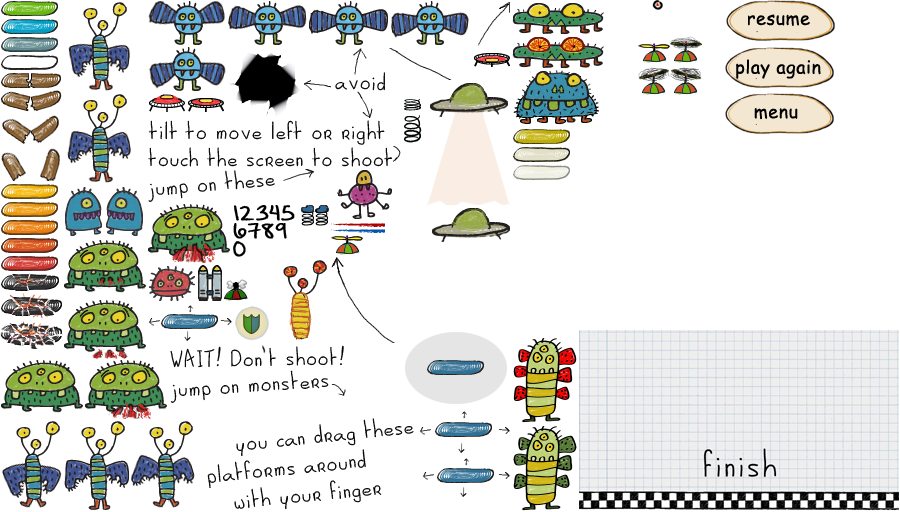
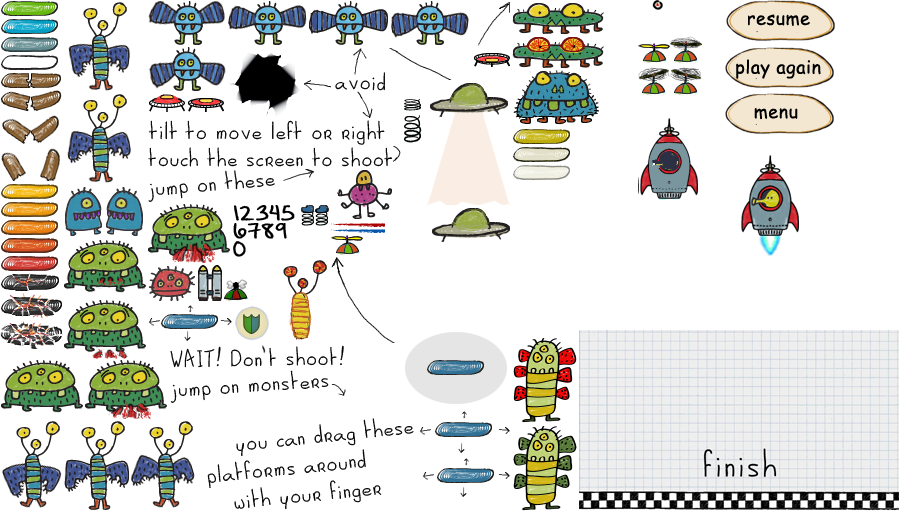
rocket added

Changed region(s): [[0.8089, 0.3125, 0.9022, 0.5], [0.6844, 0.25, 0.7778, 0.4062]]

diff --git a/doodle/js/player.js b/doodle/js/player.js
@@ -3,6 +3,8 @@ function Player(canvas, x ,y ,width, height) {
     this.y = y;
     this.width = width;
     this.height = height;
+    this.trueWidth = width;
+    this.trueHeight = height;
     this.canvas=canvas;
     this.ctx=this.canvas.getContext("2d");
 
@@ -72,16 +74,22 @@ function Player(canvas, x ,y ,width, height) {
             
             if(this.velocity >= 0){
                 this.acceleration = 0.25;
-                if(this.pickupType!="springShoe")
-                    this.hasPickup = false;
-                if(this.pickupType == "jetpack") {
-                    if(this.left) {
-                        this.img = doodleLeft;
-                    }
-                    else{
-                        this.img = doodleRight;
-                    }
+                this.width = this.trueWidth;
+                this.height = this.trueHeight;
+                if(this.hasPickup){
+                    if(this.pickupType!="springShoe"){
+                        this.hasPickup = false;
+                    }  
+                    // if(this.hasPickup){
+                        if(this.pickupType == "jetpack" || this.pickupType == "rocket") {
+                            this.img = doodleRight;
+                            this.hasPickup = false;
+                        }
+                    // }
+
                 }
+                
+                
                 this.falling = true;
                 this.velocity = this.gravity;
             }
@@ -195,6 +203,18 @@ function Player(canvas, x ,y ,width, height) {
 
                             jetpackSound.play();
                         }
+                        else if(tiles[i].pickup.choosen == "rocket") {
+                            this.setJumpspeed(-25);
+                            this.velocity = this.jumpSpeed;
+                            this.falling = false;
+                            this.acceleration = 0.10;
+                            this.hasPickup = true;
+                            this.pickupType = "rocket";
+                            this.img = doodleRocket;
+                            this.width = 72;
+                            this.height = 129;
+                            
+                        }
                     }
 
                 }
@@ -202,6 +222,7 @@ function Player(canvas, x ,y ,width, height) {
 
                 if(this.falling){
                     if(this.y + this.height <= tiles[i].y+ tiles[i].height){
+                        
                         if(tiles[i].hasSpring) {
                             this.setJumpspeed(-15);
                             tiles[i].inflateSpring(116, 28);
@@ -242,6 +263,10 @@ function Player(canvas, x ,y ,width, height) {
                             this.hasPickup = false;
                         }
                         this.springJumpCounter--;
+
+                        // if(tiles[i].isWhite) {
+                        //     tiles.splice(i,1);
+                        // }
 
                     }
 
@@ -308,6 +333,9 @@ function Player(canvas, x ,y ,width, height) {
                     else if(dis.pickupType == "jetpack") {
                         dis.img = doodleLeftJetpack;
                     }
+                    else if(dis.pickupType == "rocket") {
+                        dis.img = doodleRocket;
+                    }
                     else{
                         dis.img = doodleLeft;
                     }
@@ -327,6 +355,9 @@ function Player(canvas, x ,y ,width, height) {
                     }
                     else if(dis.pickupType == "jetpack") {
                         dis.img = doodleRightJetpack;
+                    }
+                    else if(dis.pickupType == "rocket") {
+                        dis.img = doodleRocket;
                     }
                     else{
                         dis.img = doodleRight;

diff --git a/doodle/js/tile.js b/doodle/js/tile.js
@@ -3,19 +3,20 @@
 function Tile(canvas, x ,y) {
     this.x = x;
     this.y = y;
-    this.width = 60;
-    this.height = 15;
+    this.width = 58;
+    this.height = 16;
     this.canvas=canvas;
     this.ctx=this.canvas.getContext("2d");
 
-    let ran = parseInt(Math.random()*10);
-    this.hasSpring = (ran >= "9") ? true :false;
+    let ran = parseInt(Math.random()*20);
+    this.hasSpring = (ran >= 18) ? true :false;
     this.springX = getRandomValue(this.x, this.x+ this.width-19);
 
-    this.isBlue = (ran <= "2") ? true: false;
+    this.isBlue = (ran <= 3) ? true: false;
+    this.isWhite = (ran == 10) ? true: false;
 
 
-    this.hasPickup = (ran == 5) ? true: false;
+    this.hasPickup = (ran == 7) ? true: false;
 
     this.dx = 1;
     this.img = tile;
@@ -28,10 +29,23 @@ function Tile(canvas, x ,y) {
     this.springHeight = 12;
     this.diff = 5;
 
+    this.sy =0;
+
+
+    this.positionY = {
+        green: 0 ,
+        blue : 18,
+        white: 54
+        
+    }
+
     var dis = this;
     this.init = function() {
         if(this.isBlue){
-            this.img = tileBlue;
+            this.sy = this.positionY.blue;
+        }
+        if(this.isWhite) {
+            this.sy = this.positionY.white;
         }
         if(this.hasPickup){
             this.pickup = new Pickup(this.canvas, this.x, this.y);
@@ -51,7 +65,7 @@ function Tile(canvas, x ,y) {
             }
         }
         
-        this.ctx.drawImage(this.img,this.x,  this.y, this.width, this.height);
+        this.ctx.drawImage(gameTiles,0, this.sy, this.width, this.height,this.x,  this.y, this.width, this.height);
         if(this.hasSpring){
             this.ctx.drawImage(gameTiles, this.springSx, this.springSy, 19, 12, this.springX, this.y-this.diff, this.springWidth, this.springHeight );
             // this.ctx.fillRect(this.springX, this.y-10, 10, 12);

diff --git a/doodle/js/screens.js b/doodle/js/screens.js
@@ -111,13 +111,18 @@ doodleRightJetpack = new Image();
 doodleRightJetpack.src = "./images/lik-right-jetpack.png";
 doodleRightJetpack.addEventListener("load",loadCount,false);
 
+doodleRocket = new Image();
+doodleRocket.src = "./images/lik-rocket.png";
+doodleRocket.addEventListener("load",loadCount,false);
+
+
 tile = new Image();
 tile.src = "./images/tile.png";
 tile.addEventListener("load",loadCount,false);
 
-tileBlue = new Image();
-tileBlue.src = "./images/tile-blue.png";
-tileBlue.addEventListener("load",loadCount,false);
+// tileBlue = new Image();
+// tileBlue.src = "./images/tile-blue.png";
+// tileBlue.addEventListener("load",loadCount,false);
 
 topScore = new Image();
 topScore.src = "./images/top-score.png";

diff --git a/doodle/js/pickup.js b/doodle/js/pickup.js
@@ -28,9 +28,15 @@ function Pickup(canvas, x, y) {
             width: 30,
             height: 18
         },
+        rocket: {
+            sx: 640,
+            sy: 118,
+            width: 58,
+            height: 80
+        }
     }
-    let options = ['springShoe', 'jetpack', 'propellerHat'];
-    let random = parseInt(Math.random() * 3);
+    let options = ['springShoe', 'jetpack', 'propellerHat', "rocket"];
+    let random = parseInt(Math.random() * 4);
     this.choosen = options[random];
 
     this.test = function() {
